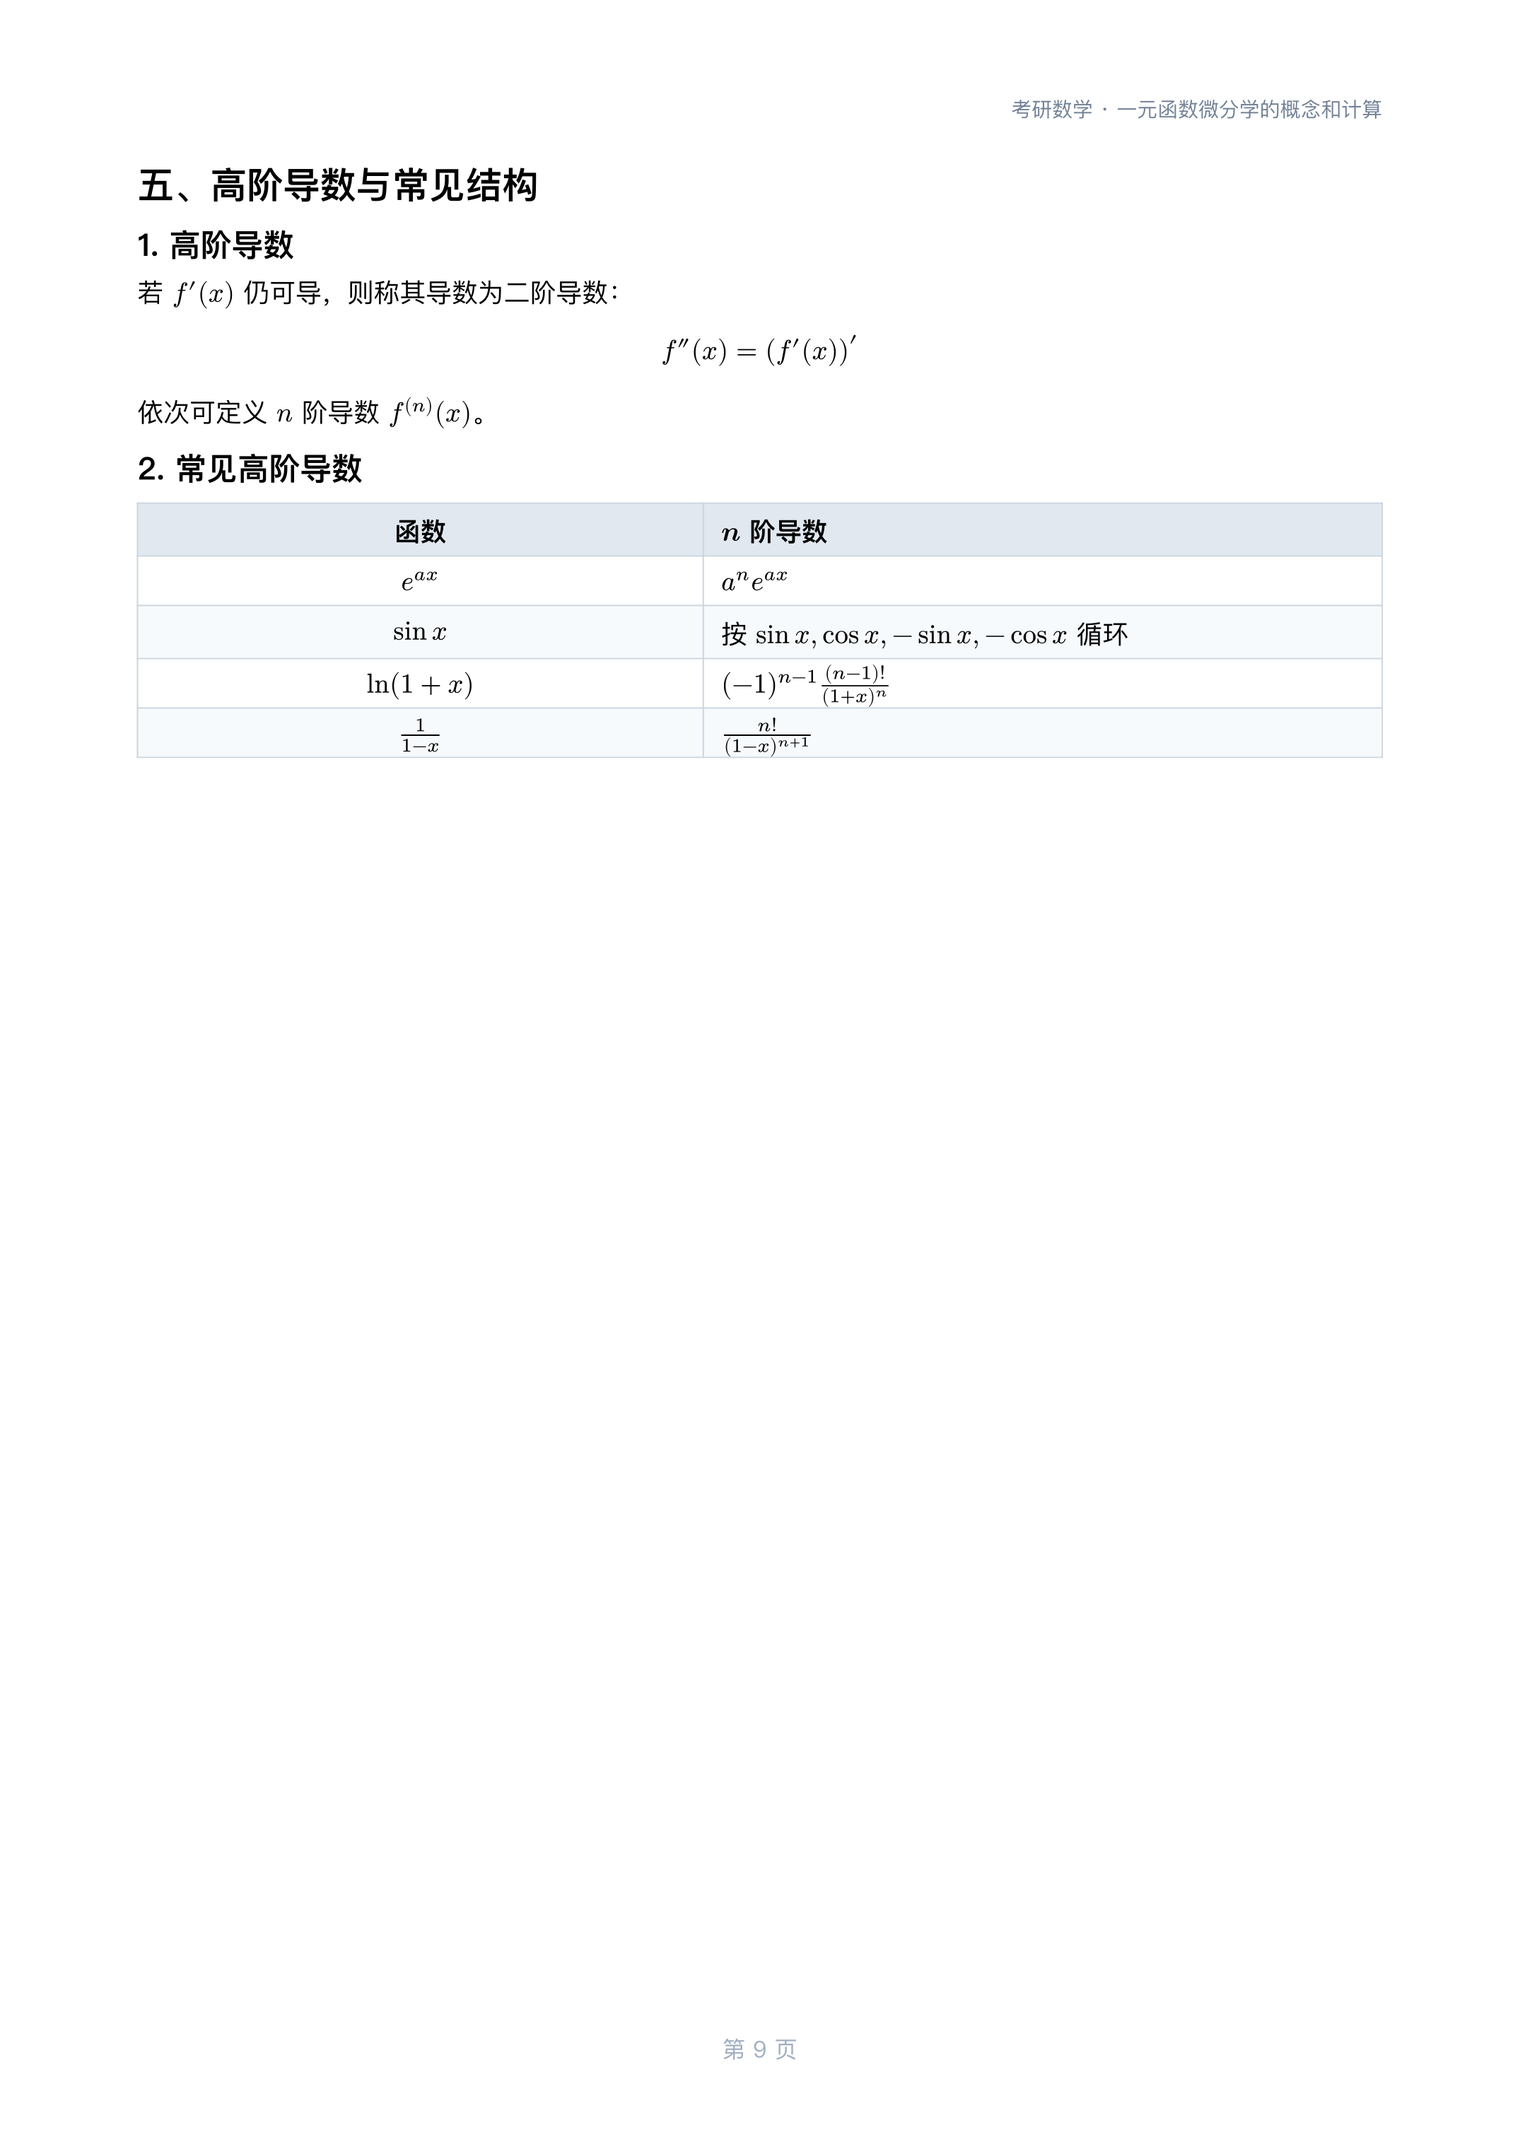
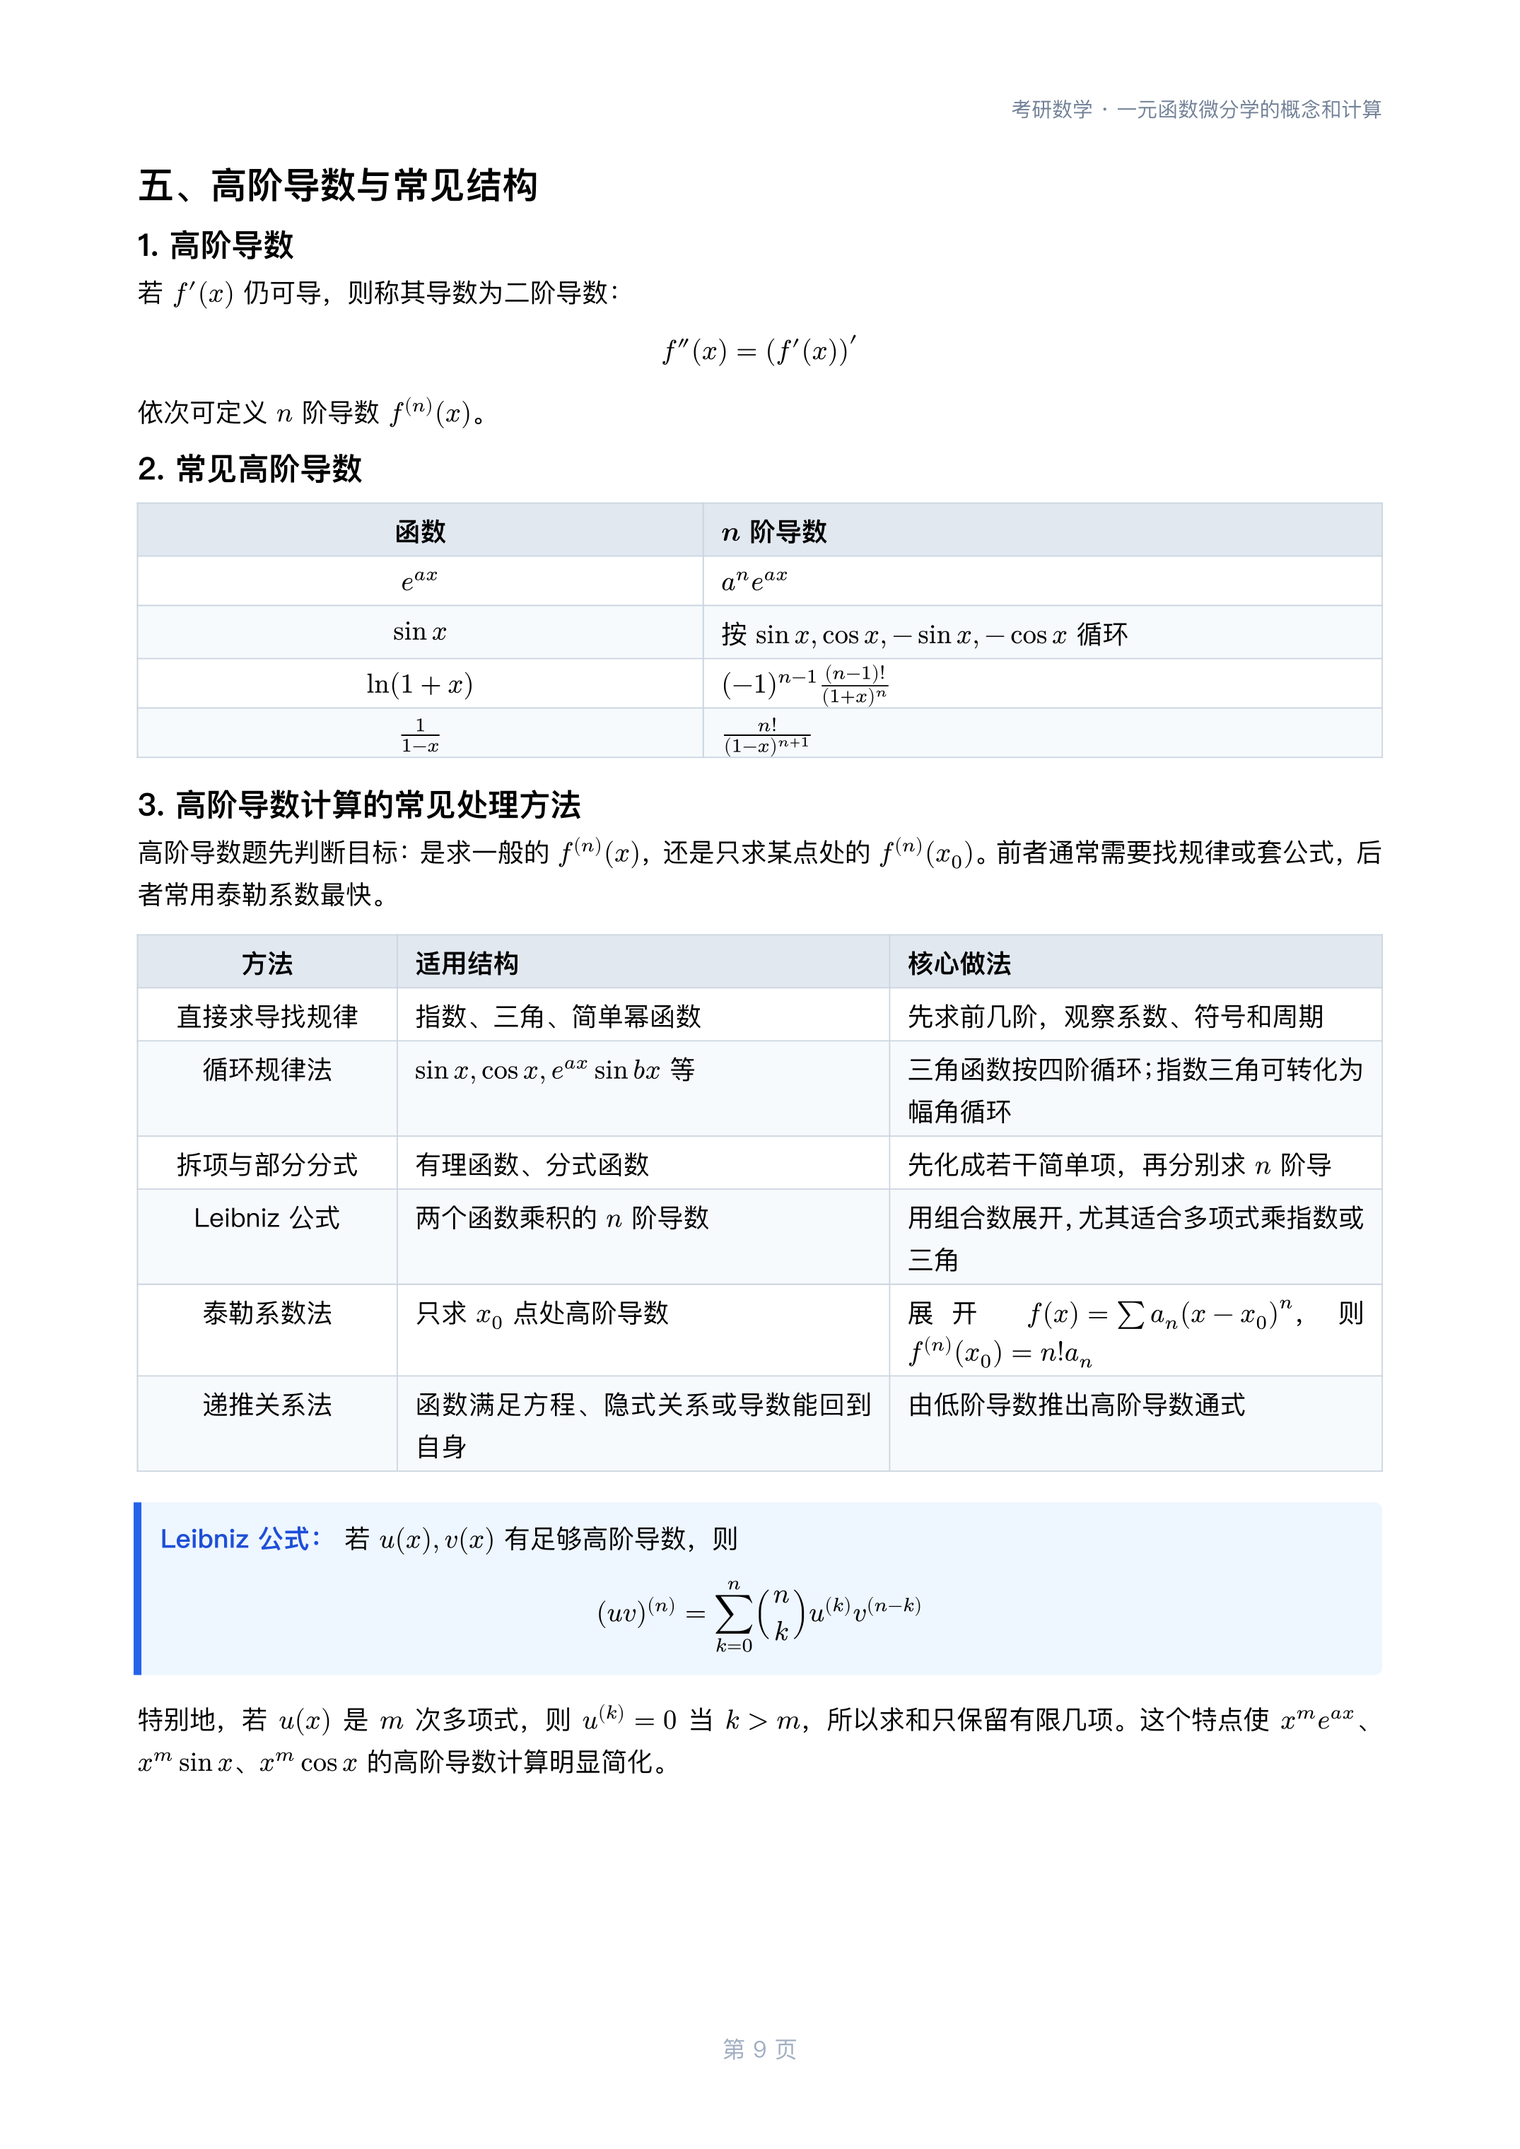
Add higher-order derivative methods

diff --git a/ebook/data.js b/ebook/data.js
@@ -2,10 +2,10 @@
 window.BOOK_MANIFEST = {
   "title": "考研数学电子书",
   "subtitle": "微积分 · 线性代数 · 概率论",
-  "generatedAt": "2026-08-04T20:04:49+08:00",
+  "generatedAt": "2026-08-05T10:03:15+08:00",
   "stats": {
     "documents": 23,
-    "pages": 269,
+    "pages": 272,
     "renderDpi": 260,
     "pageRenderer": "typst-direct-webp",
     "pageImageExtension": "webp",
@@ -119,7 +119,7 @@ window.BOOK_MANIFEST = {
           "sourcePath": "typst/Differential Calculus Concepts and Computation (一元函数微分学的概念和计算).typ",
           "pageImageBase": "./rendered-pages/doc-31985d1e27f4/page-",
           "pageImageExtension": "webp",
-          "pageCount": 10,
+          "pageCount": 13,
           "sections": [
             {
               "id": "doc-31985d1e27f4-s1",
@@ -154,7 +154,7 @@ window.BOOK_MANIFEST = {
             {
               "id": "doc-31985d1e27f4-s6",
               "title": "六、典型例题",
-              "page": 10,
+              "page": 11,
               "level": 1
             }
           ]
@@ -1396,7 +1396,7 @@ window.BOOK_MANIFEST = {
       "sourcePath": "typst/Differential Calculus Concepts and Computation (一元函数微分学的概念和计算).typ",
       "pageImageBase": "./rendered-pages/doc-31985d1e27f4/page-",
       "pageImageExtension": "webp",
-      "pageCount": 10,
+      "pageCount": 13,
       "sections": [
         {
           "id": "doc-31985d1e27f4-s1",
@@ -1431,7 +1431,7 @@ window.BOOK_MANIFEST = {
         {
           "id": "doc-31985d1e27f4-s6",
           "title": "六、典型例题",
-          "page": 10,
+          "page": 11,
           "level": 1
         }
       ]
@@ -2704,8 +2704,8 @@ window.SEARCH_INDEX = [
     "category": "微积分",
     "page": 7,
     "heading": "一元函数微分学的概念和计算",
-    "snippet": "四、求导法则 1. 四则运算 若 u u x ， v v x 可导，则 u+v ' u'+v' u v ' u'v+u v' u/v ' u'v-u v' /v^2 quad v ! 0 2. 复合函数求导 若 y f u ， u g x ，则 d y/d x d y / d u dot d u / d x f' g x g' x 链式法...",
-    "text": "Differential Calculus Concepts and Computation (一元函数微分学的概念和计算) Differential Calculus Concepts and Computation 一元函数微分学的概念和计算 微积分 一元函数微分学的概念和计算 四、求导法则 1. 四则运算 若 u u x ， v v x 可导，则 u+v ' u'+v' u v ' u'v+u v' u/v ' u'v-u v' /v^2 quad v ! 0 2. 复合函数求导 若 y f u ， u g x ，则 d y/d x d y / d u dot d u / d x f' g x g' x 链式法则的关键是从外到内逐层求导，每层都不能漏。 3. 反函数求导 若 y f x 单调可导，且 f' x ! 0 ，其反函数 x phi y 满足 d x / d y 1/ d y / d x 常用于反三角函数和由方程确定的反函数。 4. 隐函数求导 若 F x,y 0 确定 y y x ，则两边对 x 求导，把 y 看成 x 的函数： F x+F y y' 0 若 F y ! 0 ，则 y' -F x/F y 5. 参数方程求导 若 x x t , quad y y t 且 x' t ! 0 ，则 d y / d x d y / d t / d x / d t y' t /x' t 二阶导数为 d^2 y / d x^2 d / d t d y / d x / d x/d t 6. 对数求导法 当函数含有乘积、商、幂指函数时，常先取对数再求导。例如 y u x ^ v x 两边取对数： ln y v ln u 再求导： y'/y v' ln u+v u'/u"
+    "snippet": "四、求导法则 1. 四则运算 若 u u x ， v v x 可导，则 u+v ' u'+v' u v ' u'v+u v' u/v ' u'v-u v' /v^2 quad v ! 0 2. 复合函数求导 若 y f u ， u g x ，则 dif y / dif x dif y / dif u dot dif u / dif x f...",
+    "text": "Differential Calculus Concepts and Computation (一元函数微分学的概念和计算) Differential Calculus Concepts and Computation 一元函数微分学的概念和计算 微积分 一元函数微分学的概念和计算 四、求导法则 1. 四则运算 若 u u x ， v v x 可导，则 u+v ' u'+v' u v ' u'v+u v' u/v ' u'v-u v' /v^2 quad v ! 0 2. 复合函数求导 若 y f u ， u g x ，则 dif y / dif x dif y / dif u dot dif u / dif x f' g x g' x 链式法则的关键是从外到内逐层求导，每层都不能漏。 3. 反函数求导 若 y f x 单调可导，且 f' x ! 0 ，其反函数 x phi y 满足 dif x / dif y 1/ dif y / dif x 常用于反三角函数和由方程确定的反函数。 4. 隐函数求导 若 F x,y 0 确定 y y x ，则两边对 x 求导，把 y 看成 x 的函数： F x+F y y' 0 若 F y ! 0 ，则 y' -F x/F y 5. 参数方程求导 若 x x t , quad y y t 且 x' t ! 0 ，则 dif y / dif x dif y / dif t / dif x / dif t y' t /x' t 二阶导数为 dif^2 y / dif x^2 dif / dif t dif y / dif x / dif x / dif t 6. 对数求导法 当函数含有乘积、商、幂指函数时，常先取对数再求导。例如 y u x ^ v x 两边取对数： ln y v ln u 再求导： y'/y v' ln u+v u'/u"
   },
   {
     "id": "doc-31985d1e27f4-p9",
@@ -2715,17 +2715,17 @@ window.SEARCH_INDEX = [
     "page": 9,
     "heading": "一元函数微分学的概念和计算",
     "snippet": "五、高阶导数与常见结构 1. 高阶导数 若 f' x 仍可导，则称其导数为二阶导数： f'' x f' x ' 依次可定义 n 阶导数 f^ n x 。 2. 常见高阶导数 columns: 2fr, 2.4fr , align: center, left , stroke: 0.5pt + rgb , fill: x, y if y 0...",
-    "text": "Differential Calculus Concepts and Computation (一元函数微分学的概念和计算) Differential Calculus Concepts and Computation 一元函数微分学的概念和计算 微积分 一元函数微分学的概念和计算 五、高阶导数与常见结构 1. 高阶导数 若 f' x 仍可导，则称其导数为二阶导数： f'' x f' x ' 依次可定义 n 阶导数 f^ n x 。 2. 常见高阶导数 columns: 2fr, 2.4fr , align: center, left , stroke: 0.5pt + rgb , fill: x, y if y 0 rgb else if calc.rem y, 2 0 rgb , 函数 , n 阶导数 , e^ a x , a^n e^ a x , sin x , 按 sin x, cos x, -sin x, -cos x 循环 , ln 1+x , -1 ^ n-1 n-1 !/ 1+x ^n , 1/ 1-x , n!/ 1-x ^ n+1 ,"
+    "text": "Differential Calculus Concepts and Computation (一元函数微分学的概念和计算) Differential Calculus Concepts and Computation 一元函数微分学的概念和计算 微积分 一元函数微分学的概念和计算 五、高阶导数与常见结构 1. 高阶导数 若 f' x 仍可导，则称其导数为二阶导数： f'' x f' x ' 依次可定义 n 阶导数 f^ n x 。 2. 常见高阶导数 columns: 2fr, 2.4fr , align: center, left , stroke: 0.5pt + rgb , fill: x, y if y 0 rgb else if calc.rem y, 2 0 rgb , 函数 , n 阶导数 , e^ a x , a^n e^ a x , sin x , 按 sin x, cos x, -sin x, -cos x 循环 , ln 1+x , -1 ^ n-1 n-1 !/ 1+x ^n , 1/ 1-x , n!/ 1-x ^ n+1 , 3. 高阶导数计算的常见处理方法 高阶导数题先判断目标：是求一般的 f^ n x ，还是只求某点处的 f^ n x 0 。前者通常需要找规律或套公式，后者常用泰勒系数最快。 columns: 1.45fr, 2.75fr, 2.75fr , align: center, left, left , stroke: 0.5pt + rgb , fill: x, y if y 0 rgb else if calc.rem y, 2 0 rgb , 方法 , 适用结构 , 核心做法 , 直接求导找规律 , 指数、三角、简单幂函数 , 先求前几阶，观察系数、符号和周期 , 循环规律法 , sin x, cos x, e^ a x sin b x 等 , 三角函数按四阶循环；指数三角可转化为幅角循环 , 拆项与部分分式 , 有理函数、分式函数 , 先化成若干简单项，再分别求 n 阶导 , Leibniz 公式 , 两个函数乘积的 n 阶导数 , 用组合数展开，尤其适合多项式乘指数或三角 , 泰勒系数法 , 只求 x 0 点处高阶导数 , 展开 f x sum a n x-x 0 ^n ，则 f^ n x 0 n! a n , 递推关系法 , 函数满足方程、隐式关系或导数能回到自身 , 由低阶导数推出高阶导数通式 , Leibniz 公式 若 u x ,v x 有足够高阶导数，则 u v ^ n sum k 0 ^n binom n,k u^ k v^ n-k 特别地，若 u x 是 m 次多项式，则 u^ k 0 当 k m ，所以求和只保留有限几项。这个特点使 x^m e^ a x 、 x^m sin x 、 x^m cos x 的高阶导数计算明显简化。 泰勒系数法 若在 x 0 附近 f x sum n 0 ^infinity a n x-x 0 ^n 则 f^ n x 0 n! a n 这个方法适合只问某点高阶导数，例如 f^ 20 0 、 f^ n 0 。不用真的求二十次导数，只要找出对应次幂的系数。 实战选择顺序 1. 若要求 f^ n x ，先求前几阶，看是否有周期、符号或系数规律。\\ 2. 若函数是乘积，尤其是一项多项式乘一个容易求高阶导的函数，优先用 Leibniz 公式。\\ 3. 若函数是有理式，先做多项式除法、拆项或部分分式，再套基本高阶导公式。\\ 4. 若只求 f^ n 0 或 f^ n x 0 ，优先考虑泰勒展开或幂级数。\\ 5. 若题目给出方程关系，例如 y' a y+b 、 F x,y 0 ，可通过递推逐阶求导。 高阶导数最常见的错误是机械反复求导而不找结构。看到 n 阶导数，第一反应应是“找通式”：能循环就循环，能拆项就拆项，能用泰勒系数就不要硬求导。"
   },
   {
-    "id": "doc-31985d1e27f4-p10",
+    "id": "doc-31985d1e27f4-p11",
     "docId": "doc-31985d1e27f4",
     "title": "Differential Calculus Concepts and Computation (一元函数微分学的概念和计算)",
     "category": "微积分",
-    "page": 10,
+    "page": 11,
     "heading": "一元函数微分学的概念和计算",
     "snippet": "六、典型例题 例题 1：导数定义 题目 设 f x x^2 ，用定义求 f' x 0 。 由定义 f' x 0 lim Delta x- 0 x 0+Delta x ^2-x 0^2 / Delta x lim Delta x- 0 2 x 0 Delta x+ Delta x ^2 / Delta x lim Delta x- 0 2 ...",
-    "text": "Differential Calculus Concepts and Computation (一元函数微分学的概念和计算) Differential Calculus Concepts and Computation 一元函数微分学的概念和计算 微积分 一元函数微分学的概念和计算 六、典型例题 例题 1：导数定义 题目 设 f x x^2 ，用定义求 f' x 0 。 由定义 f' x 0 lim Delta x- 0 x 0+Delta x ^2-x 0^2 / Delta x lim Delta x- 0 2 x 0 Delta x+ Delta x ^2 / Delta x lim Delta x- 0 2 x 0+Delta x 2 x 0 例题 2：隐函数求导 题目 由方程 x^2+x y+y^2 1 确定 y y x ，求 y' 。 两边对 x 求导： 2 x+ x y '+2 y y' 0 其中 x y ' y+x y' 所以 2 x+y+x y'+2 y y' 0 整理得 x+2 y y' - 2 x+y 因此 y' - 2 x+y / x+2 y 例题 3：参数方程求导 题目 设 x t^2+1 ， y t^3-t ，求 d y/d x 。 有 d x/d t 2 t, quad d y/d t 3 t^2-1 当 t ! 0 时， d y/d x 3 t^2-1 / 2 t"
+    "text": "Differential Calculus Concepts and Computation (一元函数微分学的概念和计算) Differential Calculus Concepts and Computation 一元函数微分学的概念和计算 微积分 一元函数微分学的概念和计算 六、典型例题 例题 1：导数定义 题目 设 f x x^2 ，用定义求 f' x 0 。 由定义 f' x 0 lim Delta x- 0 x 0+Delta x ^2-x 0^2 / Delta x lim Delta x- 0 2 x 0 Delta x+ Delta x ^2 / Delta x lim Delta x- 0 2 x 0+Delta x 2 x 0 例题 2：隐函数求导 题目 由方程 x^2+x y+y^2 1 确定 y y x ，求 y' 。 两边对 x 求导： 2 x+ x y '+2 y y' 0 其中 x y ' y+x y' 所以 2 x+y+x y'+2 y y' 0 整理得 x+2 y y' - 2 x+y 因此 y' - 2 x+y / x+2 y 例题 3：参数方程求导 题目 设 x t^2+1 ， y t^3-t ，求 dif y / dif x 。 有 dif x / dif t 2 t, quad dif y / dif t 3 t^2-1 当 t ! 0 时， dif y / dif x 3 t^2-1 / 2 t 例题 4：Leibniz 公式求高阶导 题目 求 y x^2 e^x 的 n 阶导数。 令 u x^2, quad v e^x 则 u' 2 x, quad u'' 2, quad u^ k 0 quad k 3 且 v^ m e^x 由 Leibniz 公式 y^ n sum k 0 ^n binom n,k u^ k v^ n-k 只需要保留 k 0,1,2 三项： y^ n x^2 e^x+n dot 2 x e^x+ n n-1 /2 dot 2 e^x 整理得 y^ n e^x x^2+2 n x+n n-1 本题总结 多项式乘指数函数时，不要反复求导。多项式高阶导会很快变成 0 ，用 Leibniz 公式只保留有限项即可。 例题 5：泰勒系数法求某点高阶导 题目 求 f x ln 1+x 在 x 0 处的 n 阶导数 f^ n 0 。 已知 ln 1+x sum m 1 ^infinity -1 ^ m-1 x^m/m quad abs x 1 因此 x^n 的系数为 a n -1 ^ n-1 /n 由泰勒系数关系 f^ n 0 n! a n 得到 f^ n 0 -1 ^ n-1 n-1 ! 本题总结 只求某一点的高阶导数时，优先看能否展开为幂级数。找到 x^n 的系数后乘以 n! ，通常比逐次求导快得多。"
   },
   {
     "id": "doc-70452ebbf4aa-p2",

diff --git a/ebook/sw.js b/ebook/sw.js
@@ -1,4 +1,4 @@
-const CACHE_VERSION = "20260804-leibniz-integral-derivative";
+const CACHE_VERSION = "20260805-higher-order-derivatives";
 const SHELL_CACHE = `kaoyan-math-ebook-shell-${CACHE_VERSION}`;
 const PAGE_CACHE = `kaoyan-math-ebook-pages-${CACHE_VERSION}`;
 const ACTIVE_CACHES = new Set([SHELL_CACHE, PAGE_CACHE]);
@@ -6,9 +6,9 @@ const ACTIVE_CACHES = new Set([SHELL_CACHE, PAGE_CACHE]);
 const SHELL_ASSETS = [
   "./",
   "./index.html",
-  "./style.css?v=20260804-leibniz-integral-derivative",
-  "./data.js?v=20260804-leibniz-integral-derivative",
-  "./app.js?v=20260804-leibniz-integral-derivative",
+  "./style.css?v=20260805-higher-order-derivatives",
+  "./data.js?v=20260805-higher-order-derivatives",
+  "./app.js?v=20260805-higher-order-derivatives",
 ];
 
 self.addEventListener("install", (event) => {

diff --git a/ebook/index.html b/ebook/index.html
@@ -4,7 +4,7 @@
     <meta charset="utf-8" />
     <meta name="viewport" content="width=device-width, initial-scale=1" />
     <title>考研数学电子书</title>
-    <link rel="stylesheet" href="./style.css?v=20260804-leibniz-integral-derivative" />
+    <link rel="stylesheet" href="./style.css?v=20260805-higher-order-derivatives" />
   </head>
   <body>
     <div class="app-shell">
@@ -54,7 +54,7 @@
       </main>
     </div>
 
-    <script src="./data.js?v=20260804-leibniz-integral-derivative"></script>
-    <script src="./app.js?v=20260804-leibniz-integral-derivative" defer></script>
+    <script src="./data.js?v=20260805-higher-order-derivatives"></script>
+    <script src="./app.js?v=20260805-higher-order-derivatives" defer></script>
   </body>
 </html>

diff --git a/ebook/app.js b/ebook/app.js
@@ -10,7 +10,7 @@ const PAGE_OBSERVER_MARGIN = "900px 0px";
 const BACKGROUND_PRELOAD_START_DELAY_MS = 1800;
 const BACKGROUND_PRELOAD_BATCH_DELAY_MS = 320;
 const BACKGROUND_PRELOAD_BATCH_SIZE = 2;
-const APP_VERSION = "20260804-leibniz-integral-derivative";
+const APP_VERSION = "20260805-higher-order-derivatives";
 const SERVICE_WORKER_FILE = "./sw.js";
 const BOOK_RENDER_ID = "__full_book__";
 
